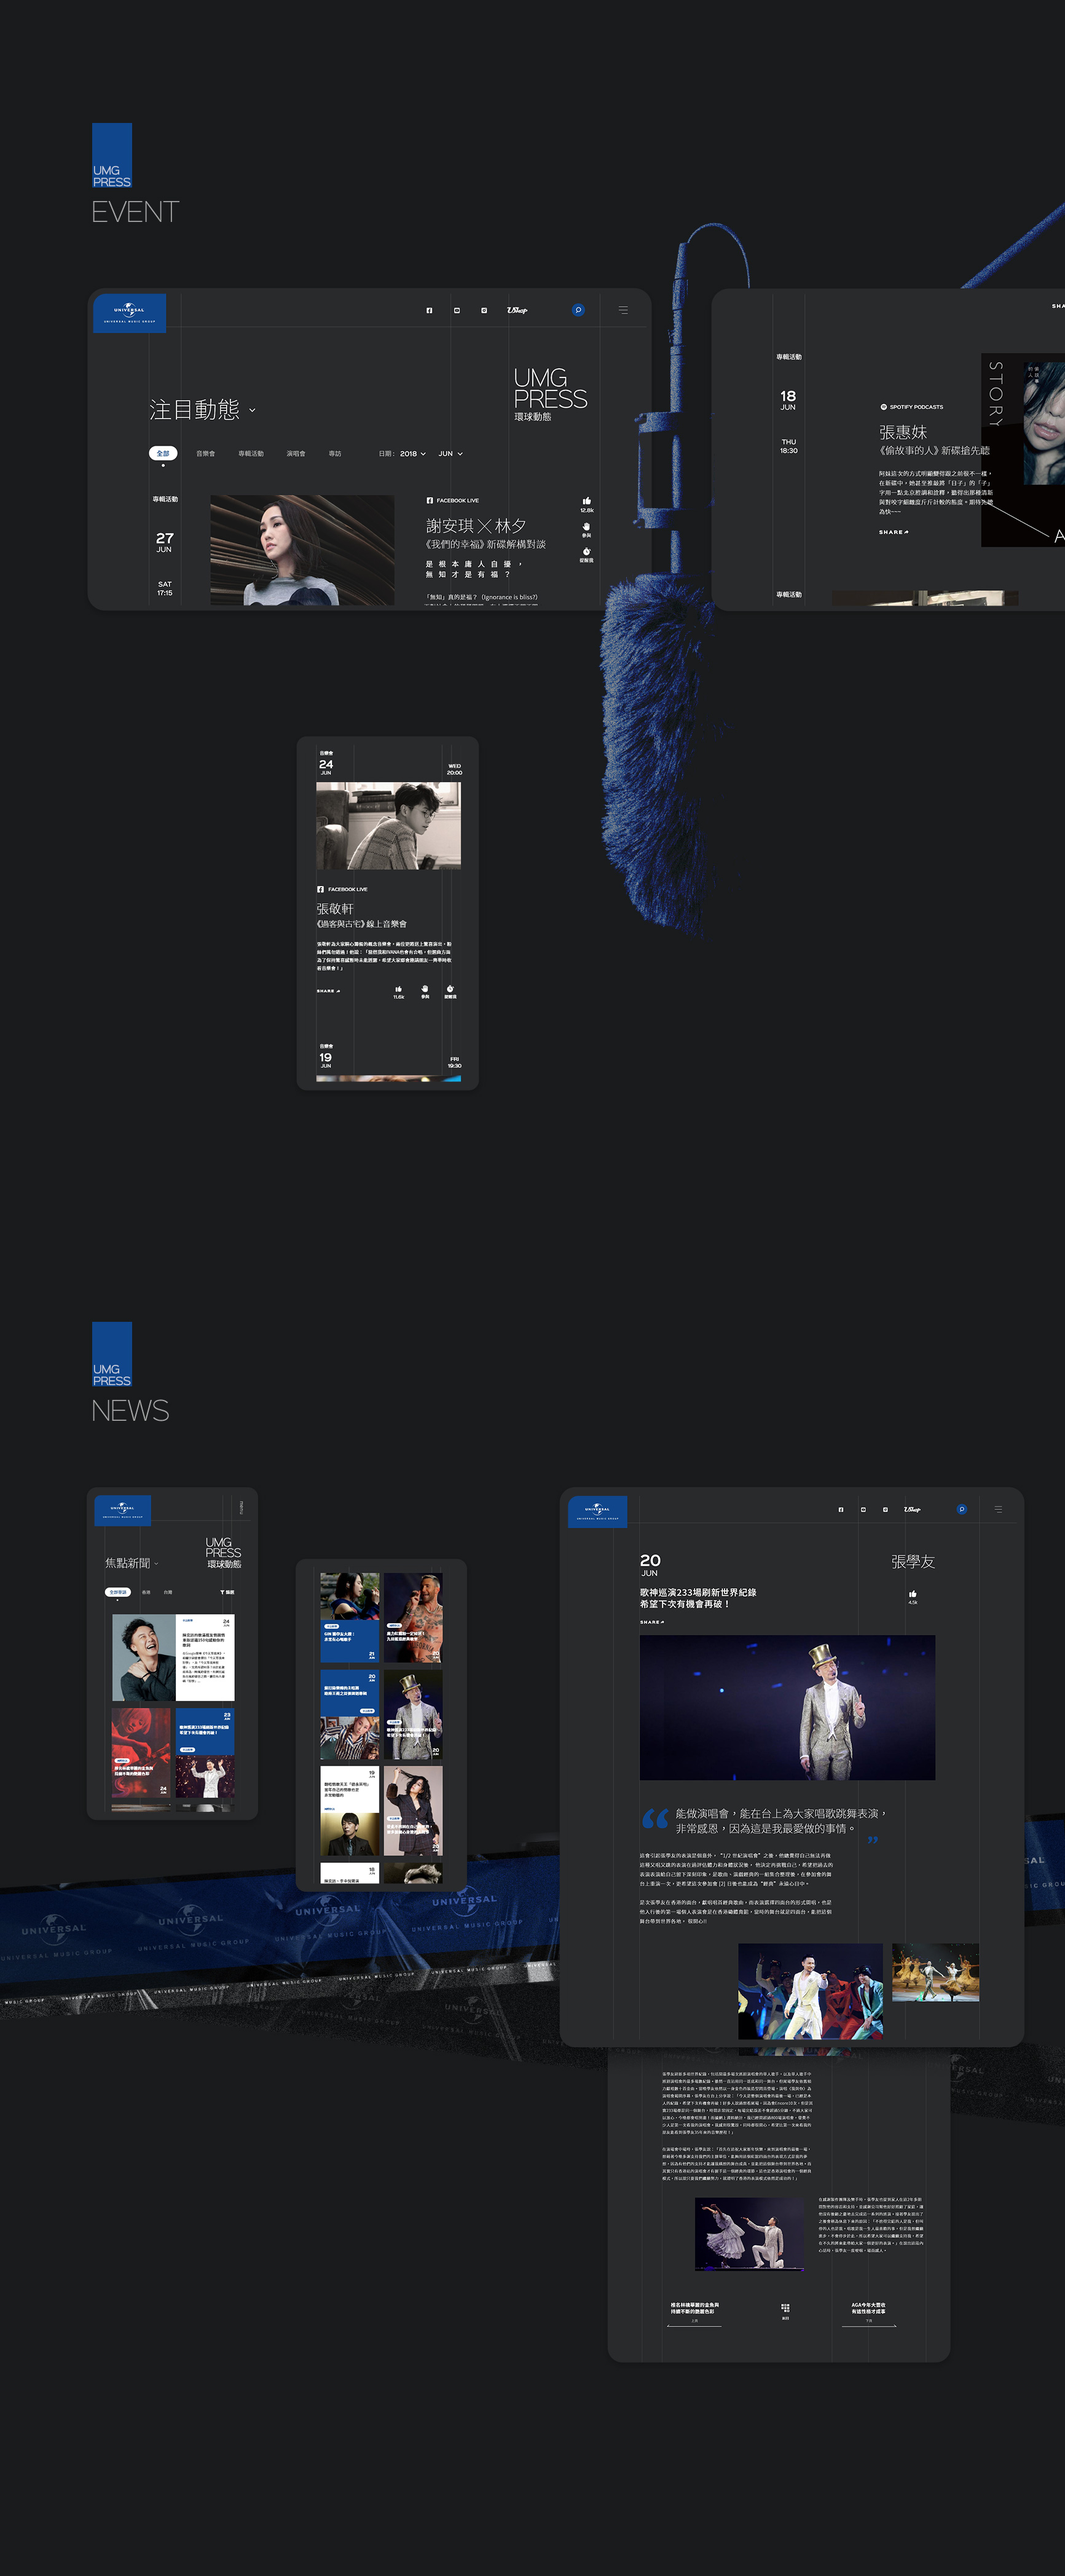
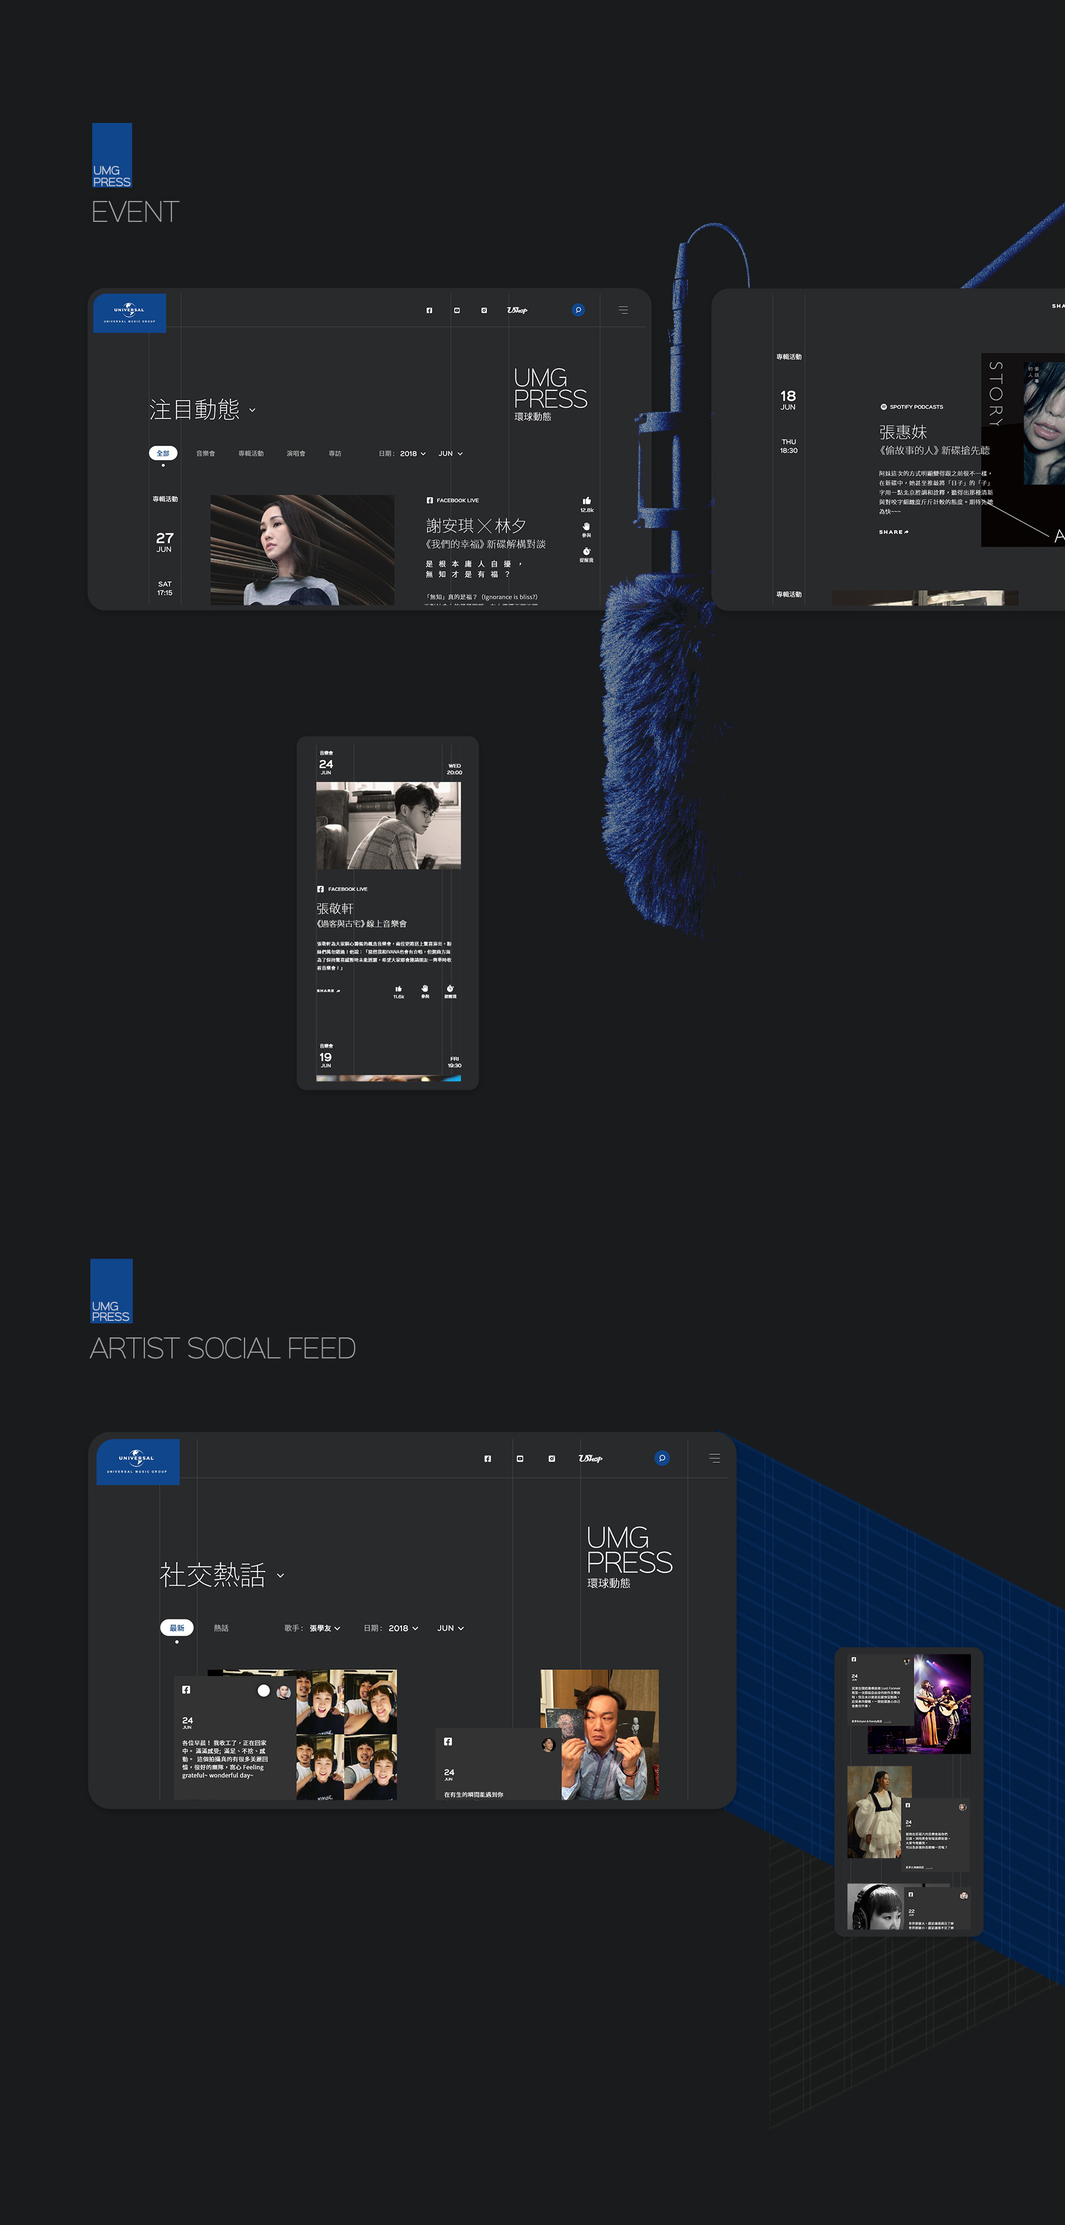
3006_01

diff --git a/umg_case_study.html b/umg_case_study.html
@@ -245,11 +245,8 @@ body, .body {
 
         <p class=" body spacing-small">重新設計的登陸體驗是四個部分, 內容結構更清晰更輕, 容易去繼續瀏覽。</p>
 
-        <p class=" body spacing-small">主要解決番第1個 Pain point, Content結構唔好, Infomation有D雜亂, 唔太似一個音樂網站既問題。</p>
 
-
-
-        <p class=" body spacing-small">Hero 係Slilder, 第2部分係核心內容,  1格格Box content layout, 放左主打既 CD, 歌手social news, event, 等等。</p>
+        <p class=" body spacing-small">Hero 係Slilder, 第2部分係核心內容, 要重點standout, 個Layout 1格格Box content, 唔同Design element配合唔同類型Content, 放左主打既 CD, 歌手social feed, event, 等等。</p>
 
         <p class=" body spacing-small">第3部分, 有個音樂大師特集 Slider。</p>
 
@@ -260,25 +257,36 @@ body, .body {
 
         <p class=" body spacing-small">Affiliate program係第2個Project goal, 要帶更多Traffic 去環球唱片CD shop, Users係專輯詳情 page, 有個大圖形 CTA button, redirect去uShop.com 購買CD。</p>
 
-        <p class=" body spacing-small">重新Design後, Overall內容結構同埋層次感清晰左, 令User易於發現內容, 同埋相關既後續旅程。</p>
+        <p class=" body spacing-small">重新Design landing page, 內容結構同埋層次感清晰左, 令User易於發現內容, 同埋相關既後續旅程, 從而降低跳出率。 </p>
+
+        <p class=" body spacing-small">主要解決番第1個 Pain point, Content結構唔好, Infomation有D雜亂。</p>
+
+        <p class=" body spacing-small">主要解決番第2個Pain point, 唔太似一個音樂網站既問題。</p>
 
 
         <p class=" body spacing-medium">之後下面個 Demo, 强化左Search功能, 重新 Design Search UI, Search page 係1個 Full screen layout, 提高番易用性, Search時候唔需要跳去1個Result page, 入左 Key word後, 有查詢建議 同埋 CD thumbnail, artwork image 等等。 有歷史紀錄, 同歌手 head icon button</p>
     </div>
 
 
+
+
     <div class="copy-width spacing-large">
-        <p class=" h1 spacing-title">第2個糸 優化品牌整體體驗, Demo展示番User Interaction同UI design</p>
+        <p class=" h1 spacing-title">第2個糸 優化UMG 線上體驗, Demo展示番UI design同User 互動元素</p>
 
-        <p class=" body spacing-small">主要解決番第2個 Pain point, 負面體驗增加左 Bouncing rate, 舊website唔係Responsive, 導至Users離開, 另外解決, website Design係 out date既問題。</p>
+        
+        <p class=" body spacing-small">首先整個 主要結構grid-based framework 係 Responsive design, 可以糸唔同 Devices睇到。 最有效直接, 方法減低Brounding rate。</p>
 
-        <p class=" body spacing-small">首先整個 Website framework 係 Responsive design, 可以糸唔同 Devices睇到, UI Design主要大量用左 Card components, 主要容易Fit 到唔同 Devices screen。</p>
 
-        <p class=" body spacing-small">深灰底色, 可以突出D image, 例如CD Cover, Artist images, 或者演唱會Poster artwork, 另外, 做左中文字Element 識別唔同類型CD。 整體Design營做番音樂唱片網站感覺。</p>
+        <p class=" body spacing-small">深灰為主題Tone, 形造番音樂品牌, 用UMG品牌藍色做對比色, 網站大量用左, Card components 作為視覺元素, 突出他們CD 封面, campaign artwork等等。 佢地有大量圖像assets, 另外, 做左中文字Element 識別唔同類型CD。 </p>
 
-        <p class=" body spacing-medium">咁係 Interaction方面, 例如增加左試聽 Popup audio player, mouse over 歌名會有個CD cover。</p>
 
-        <p class=" body spacing-medium">UMG PRESS page, 係官方news, 歌手soical wall, upcoming event資訊既地方, 有個下拉menu, click 去呢3個Sub section。</p>
+        <p class=" body spacing-medium">咁係 Interaction方面, 例如增加左試聽 Popup audio player widget, mouse over 歌名會有個CD cover, 上面有條直接去佢地CD store。 增加Traffic。</p>
+
+
+        <p class=" body spacing-medium">新既 UMG PRESS page , 係官方news, 歌手soical wall, upcoming event資訊既地方, 有個下拉menu, 可以互換呢3個Sub section。</p>
+
+        <p class=" body spacing-small">主要解決番第2個 Pain point, 負面體驗增加左 Bouncing rate, 舊website唔係Responsive, 導至Users離開, 另外解決, website Design係 out date既問題。 整體Design營做番音樂唱片網站感覺。</p>
+
     </div>
 
 
@@ -286,11 +294,12 @@ body, .body {
     <div class="copy-width spacing-large">
         <p class=" h1 spacing-title">第3個 Demo展示新加左 Social content, 可以比較深入地參與社交內容</p>
 
-        <p class=" body spacing-small">主要解決番第3個 Pain point, 缺少左Social media content, 同現今目標受眾有距離既問題。</p>
 
         <p class=" h1 spacing-title">係解決第3 Pain point: 舊 website冇提供到任何soical content, 同 User期望有落差既問題</p>
 
-        <p class=" body spacing-small">係注目動態 page, Users可以睇到歌手 Upcoming event同活動, 另外, 可以click "Join" button, 有個Dialogue 可以syn去 自己既 Google and Apple Calendar, 可以比Users Keep track 到自己有興趣 Event, 唔洗Miss左。 提高Users參與度。 </p>
+        <p class=" h1 spacing-title">目標用戶群之一是那些尋找藝術家社交內容的人。通過社交登錄網站可以提高註冊成功率並與社交受眾互動。</p>
+
+        <p class=" body spacing-small">係注目動態 page, Users可以睇到歌手 Upcoming event同專輯活動, 可以Share和Like擴大影響範圍同增加網站流量, 鼓勵Users加入活動, 可以click "Join" button, 有個Dialogue 可以syn去 自己既 Google and Apple Calendar, 可以比Users Keep track 到自己有興趣 Event, 唔洗Miss左。 提高Users參與度。 </p>
 
         <p class=" body spacing-medium">係藝人社交 page, Embed左 歌手 facebook feed 係裡面, 睇到歌手既社交訊息, 可以吸引留意歌手既 Users, 令 users 停留長D時間, 另外好處係, Social feed 係即時 content, Keep住有新Content 又唔需要發布新內容, 亦都可以有效增加流量和轉化作用。</p>
 

diff --git a/project/umg_hk.html b/project/umg_hk.html
@@ -507,6 +507,7 @@
         <img class="observable lazy" data-src="../images/projects/umg_hk/hifi_mockup_section_02.jpg" />
         <img class="observable lazy" data-src="../images/projects/umg_hk/hifi_mockup_section_03.jpg" />
         <img class="observable lazy" data-src="../images/projects/umg_hk/hifi_mockup_section_04.jpg" />
+        <img class="observable lazy" data-src="../images/projects/umg_hk/hifi_mockup_section_05.jpg" />
     </div>
 
 
